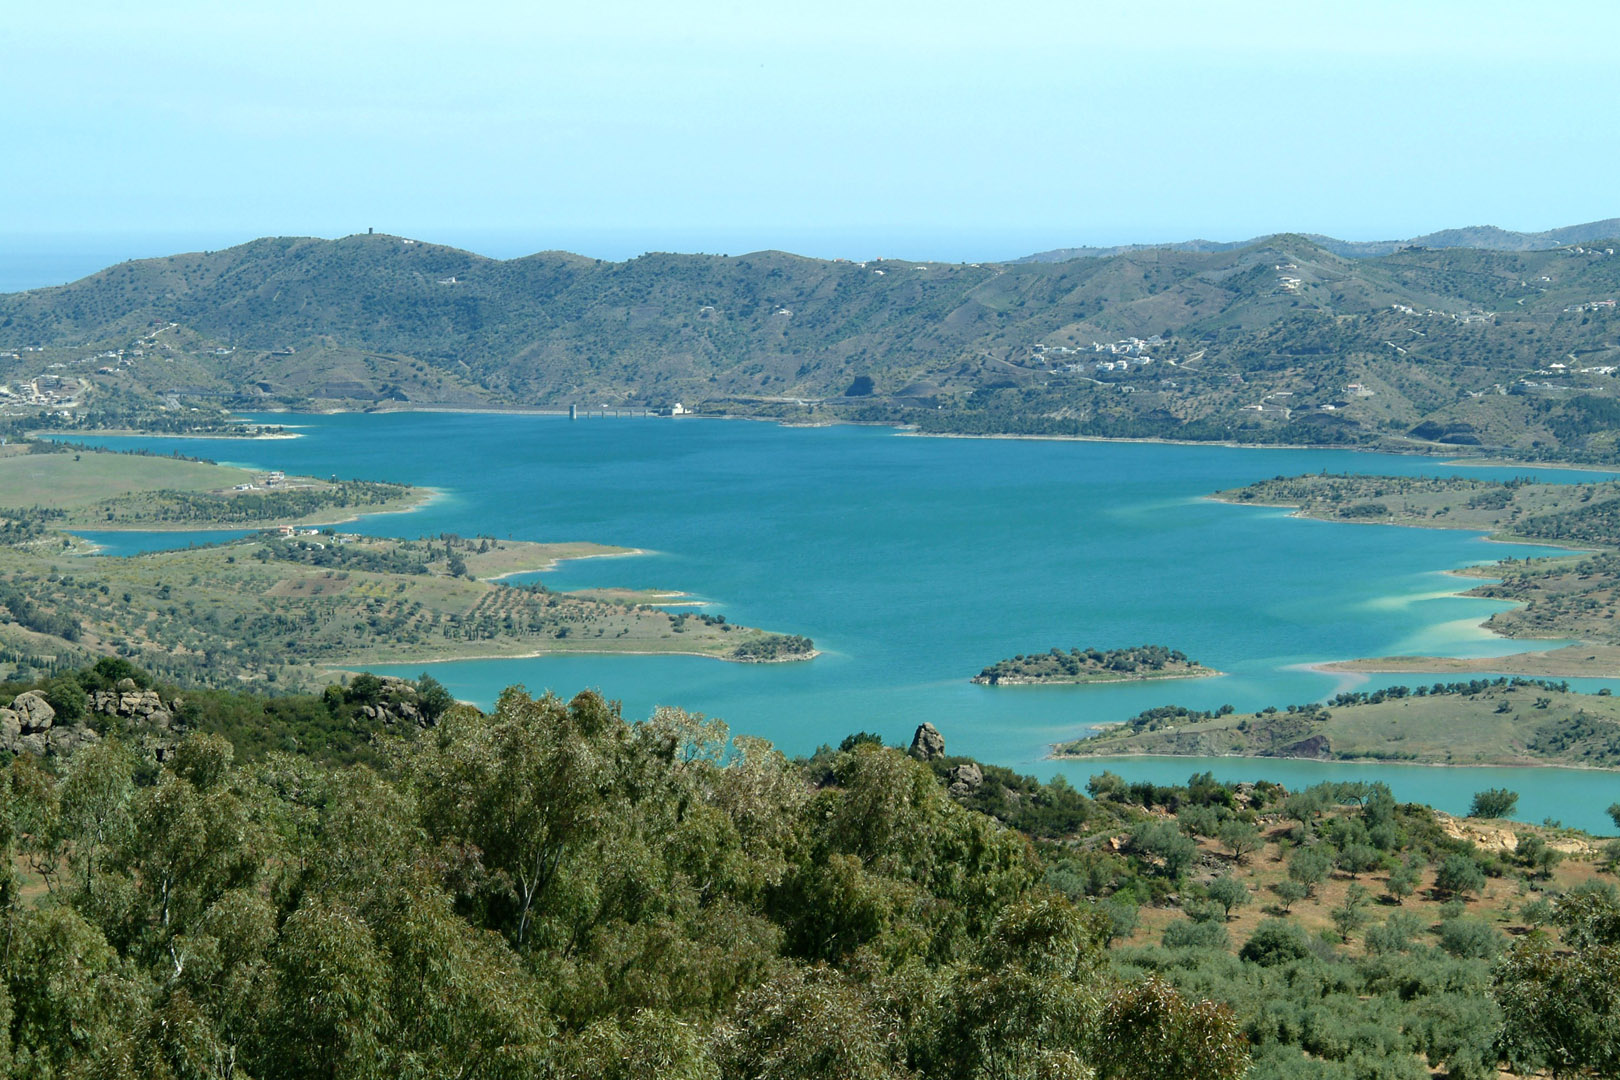
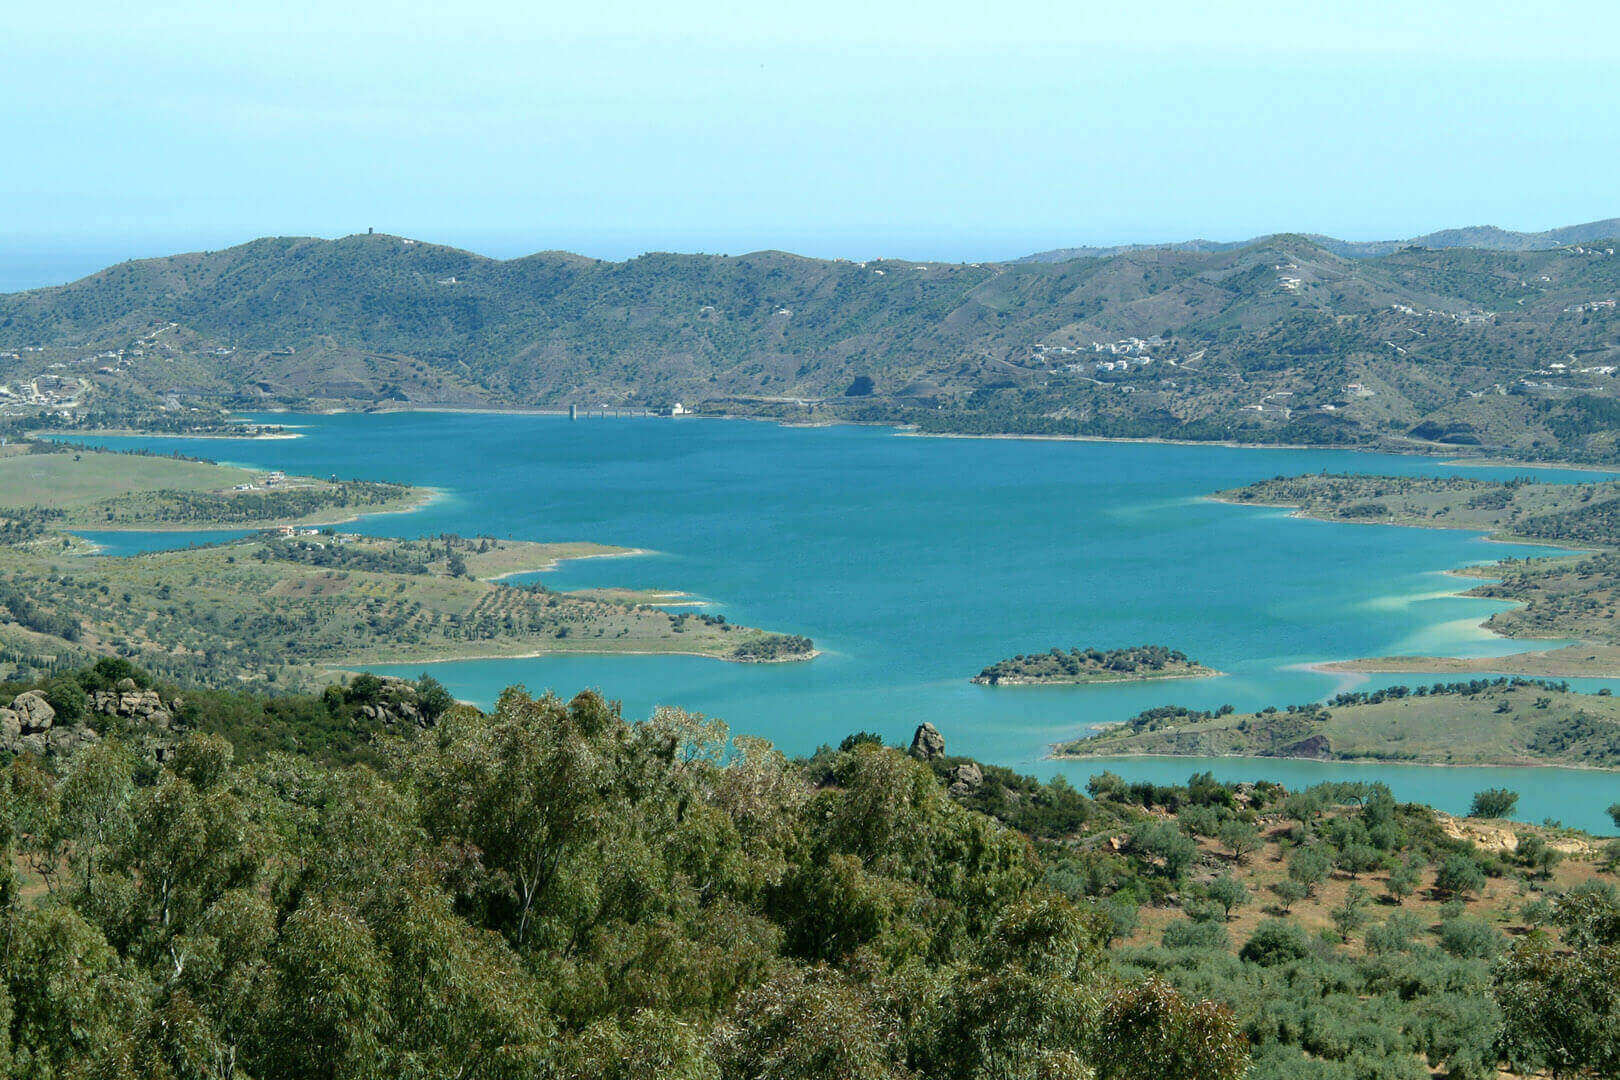
Pequeños cambios
añadiendo una pequeña transicion

diff --git a/index.html b/index.html
@@ -11,7 +11,7 @@
    
    <section class="portada ">
    <div class="background">
-      <div class="centrar-titulo">
+      <div class="centrar-titulo" id="centrar-titulo">
        <div class="contenedor cont-portada">
                <h1 class="titulo">Alojamientos rurales en Málaga</h1>
                <h3 class="subtitulo">El lugar perfecto para relajarse y disfrutar de la Axarquia.</h3>
@@ -104,7 +104,7 @@
         
     </section>
     <footer class="footer">
-        <h3>¿Tienes preguntas? Contáctanos !</h3>
+        <h3>¿Tienes preguntas?</h3>
         <div class="contenedor-footer">
         <div class="contenedor cont">
            
@@ -113,13 +113,14 @@
                 
                     <img src="images/logo.svg" alt="logo" height="100">
                 <span>Paraje la Rotura</span>
-                <span>CP: 29712</span>
+                <span>29712</span>
+                
                 <span>La Viñuela, Málaga, España</span>
             </div>
             <div class="contacto">
                 <div class="col-1">
                 <figure>
-                    <img src="images/contacto1.jpg" alt="Isa" width="200">
+                    <img src="images/contacto1.min.jpg" alt="Isa" width="200">
                 </figure>
                 </div>
                 <div class="col-2">

diff --git a/css/style.css b/css/style.css
@@ -13,7 +13,7 @@
 body{
     margin: 0 auto;
     font-family: 'Lora', serif;
-    background: #E0E4CC;
+    
     /* Portada */
 }
 h3{
@@ -31,6 +31,12 @@ h3{
     background: rgba(39,59,71,.3);
     border-radius: 20px;
     margin: 0 auto;
+    
+    animation: 8s flash;
+}
+@keyframes flash{
+    0%{opacity: 0;}
+    100%{opacity: 1;}
 }
 .header{
     max-width: 90vw;
@@ -64,7 +70,7 @@ h3{
 .background{
     height: 100vh;
     width: 100%;
-    background: url(../images/fondo2.jpg) no-repeat 50% 50%;
+    background: url(../images/fondo2.min.jpg) no-repeat 50% 50%;
     background-size: cover;
     opacity: .9;
 /*    z-index: 0;*/
@@ -83,12 +89,18 @@ h3{
     height: 100%;
     display: flex;
     align-items: center;
+    opacity: 1;
+    
 }
 .titulo{
     font-size: 60px;
     margin-bottom: 10px;
     color: white;
     padding-top: 10px;
+    
+}
+.button:hover{
+    opacity: 0;
 }
 .subtitulo{
     font-size: 24px;
@@ -409,3 +421,4 @@ td{
     height: 100%;
     width: 90%;
 }
+

diff --git a/habitaciones.html b/habitaciones.html
@@ -116,7 +116,7 @@
             <div class="contacto">
                 <div class="col-1">
                 <figure>
-                    <img src="images/contacto1.jpg" alt="Isa" width="200">
+                    <img src="images/contacto1.min.jpg" alt="Isa" width="200">
                 </figure>
                 </div>
                 <div class="col-2">

diff --git a/precios.html b/precios.html
@@ -230,7 +230,7 @@
             <div class="contacto">
                 <div class="col-1">
                 <figure>
-                    <img src="images/contacto1.jpg" alt="Isa" width="200">
+                    <img src="images/contacto1.min.jpg" alt="Isa" width="200">
                 </figure>
                 </div>
                 <div class="col-2">
